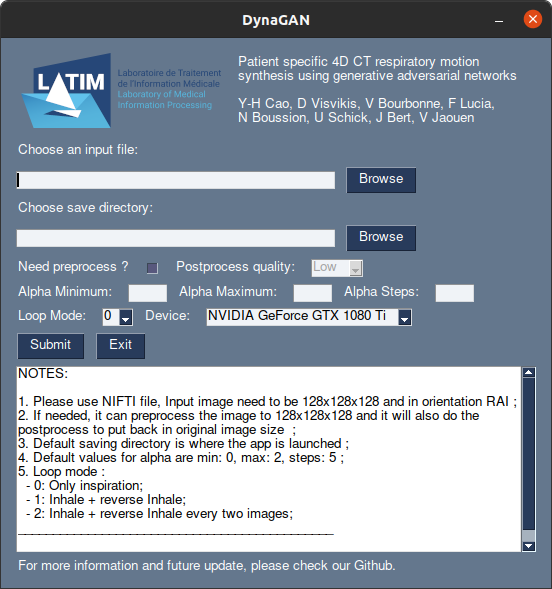
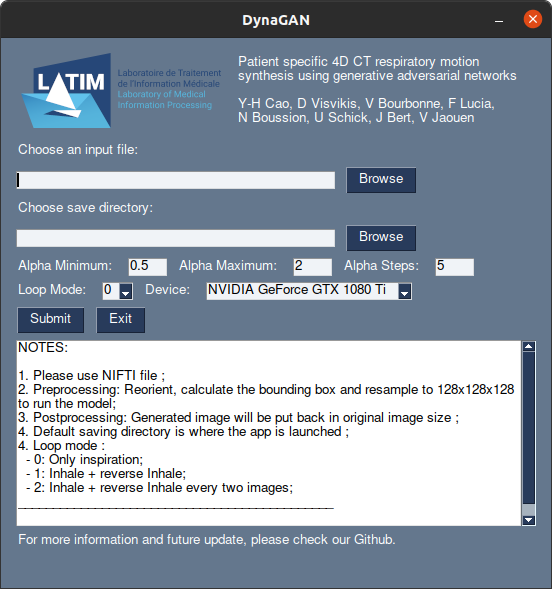
update readme

Changed region(s): [[0.0308, 0.4278, 0.9855, 0.9779]]

diff --git a/README.md b/README.md
@@ -62,46 +62,26 @@ Information about runtime for <b>alpha steps of 5</b> and initial image size of 
     <thead>
         <tr>
             <th>Device</th>
-            <th>Postprocessing Quality</th>
             <th>Preprocessing </th>
             <th>Generation </th>
+            <th>Save 4DCT </th>
             <th>Total</th>
         </tr>
     </thead>
     <tbody>
         <tr>
-            <td rowspan=3>GPU</td>
-            <td>No</td>
-            <td rowspan=3>≈ 20sec</td>
+            <td>GPU</td>
             <td>≈ 20sec</td>
-            <td>≈ 40sec</td>
+            <td>≈ 10sec</td>
+            <td>≈ 30sec</td>
+            <td>≈ 70sec</td>
         </tr>
         <tr>
-            <td>Low</td>
-            <td>≈ 100sec</td>
+            <td>CPU</td>
             <td>≈ 120sec</td>
-        </tr>
-        <tr>
-            <td>High</td>
-            <td>≈ 130sec</td>
-            <td>≈ 150sec</td>
-        </tr>
-        <tr>
-            <td rowspan=3>CPU</td>
-            <td>No</td>
-            <td rowspan=3>≈ 150sec</td>
-            <td>≈ 60sec</td>
-            <td>≈ 210sec</td>
-        </tr>
-        <tr>
-            <td>Low</td>
-            <td>≈ 140sec</td>
-            <td>≈ 290sec</td>
-        </tr>
-        <tr>
-            <td>High</td>
-            <td>≈ 170sec</td>
-            <td>≈ 330sec</td>
+            <td>≈ 40sec</td>
+            <td>≈ 30sec</td>
+            <td>≈ 190sec</td>
         </tr>
     </tbody>
 </table>
